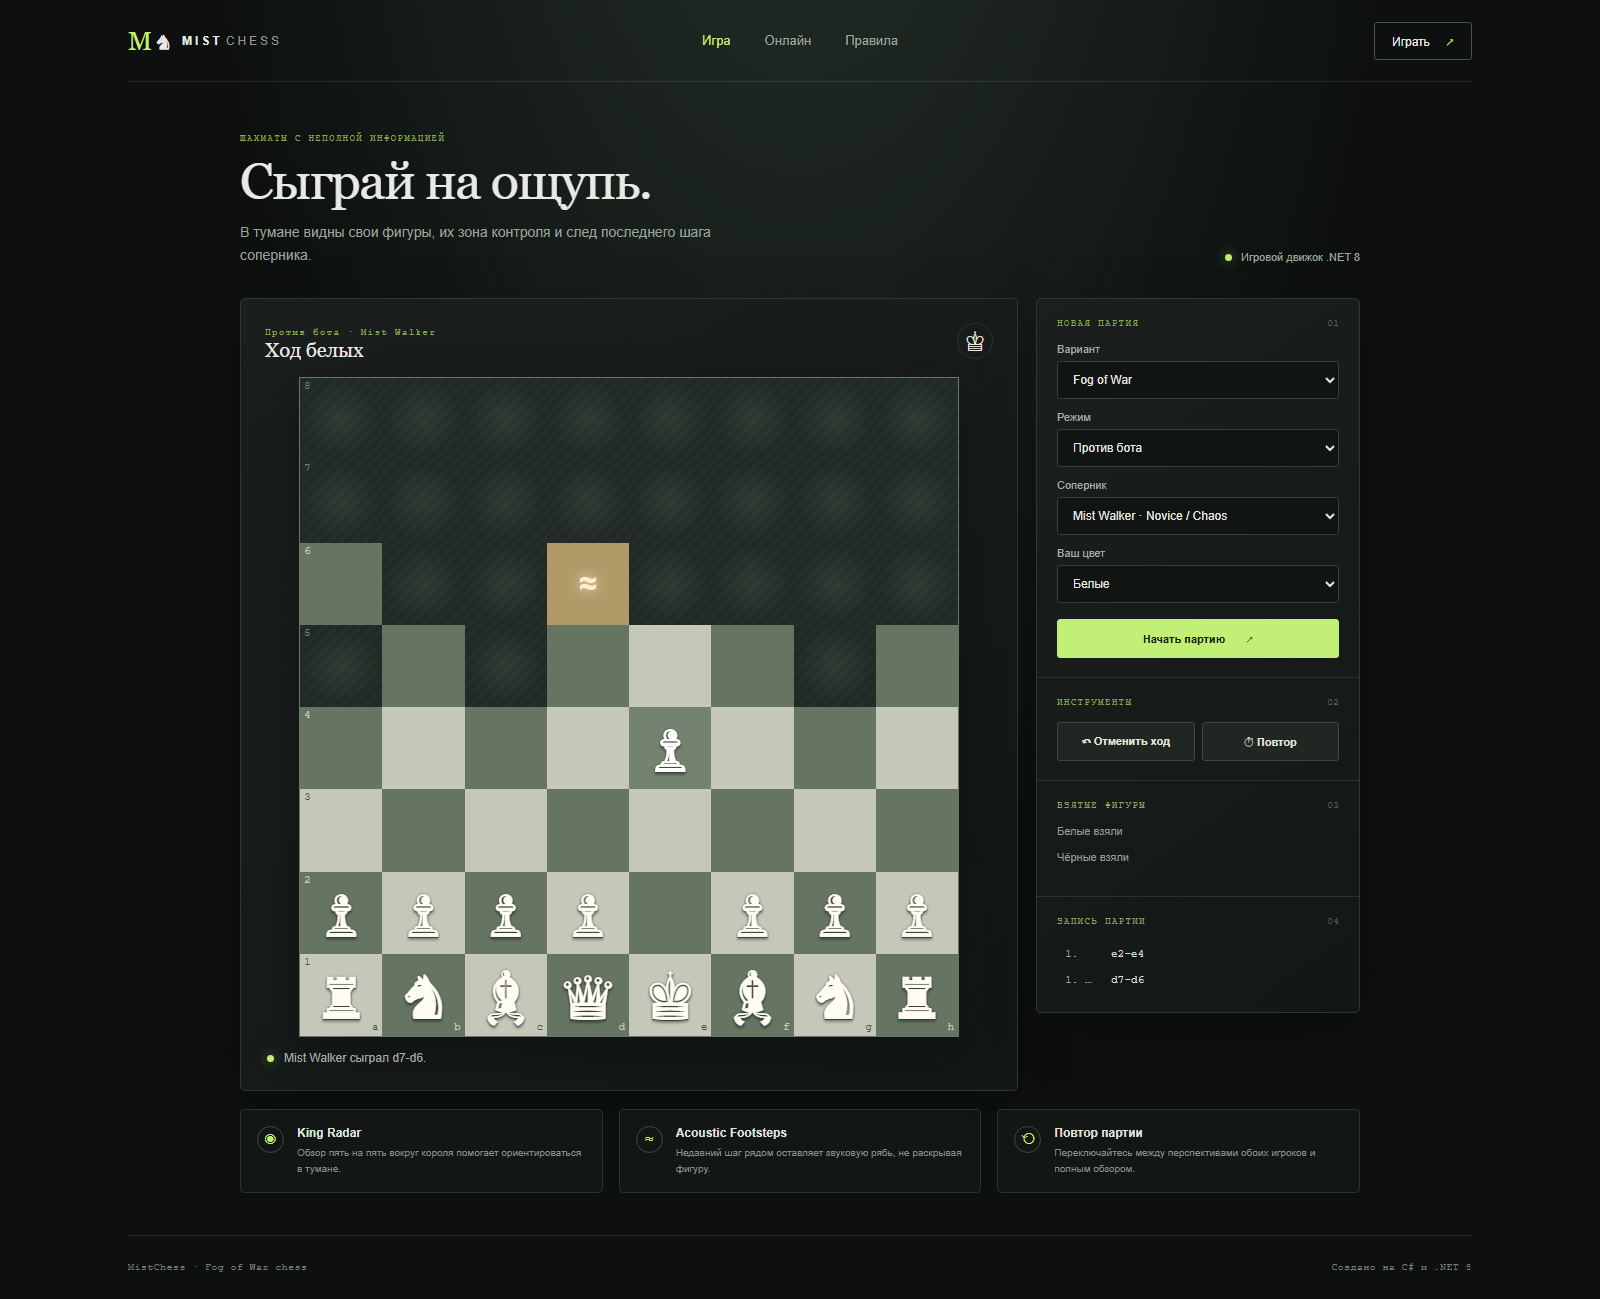
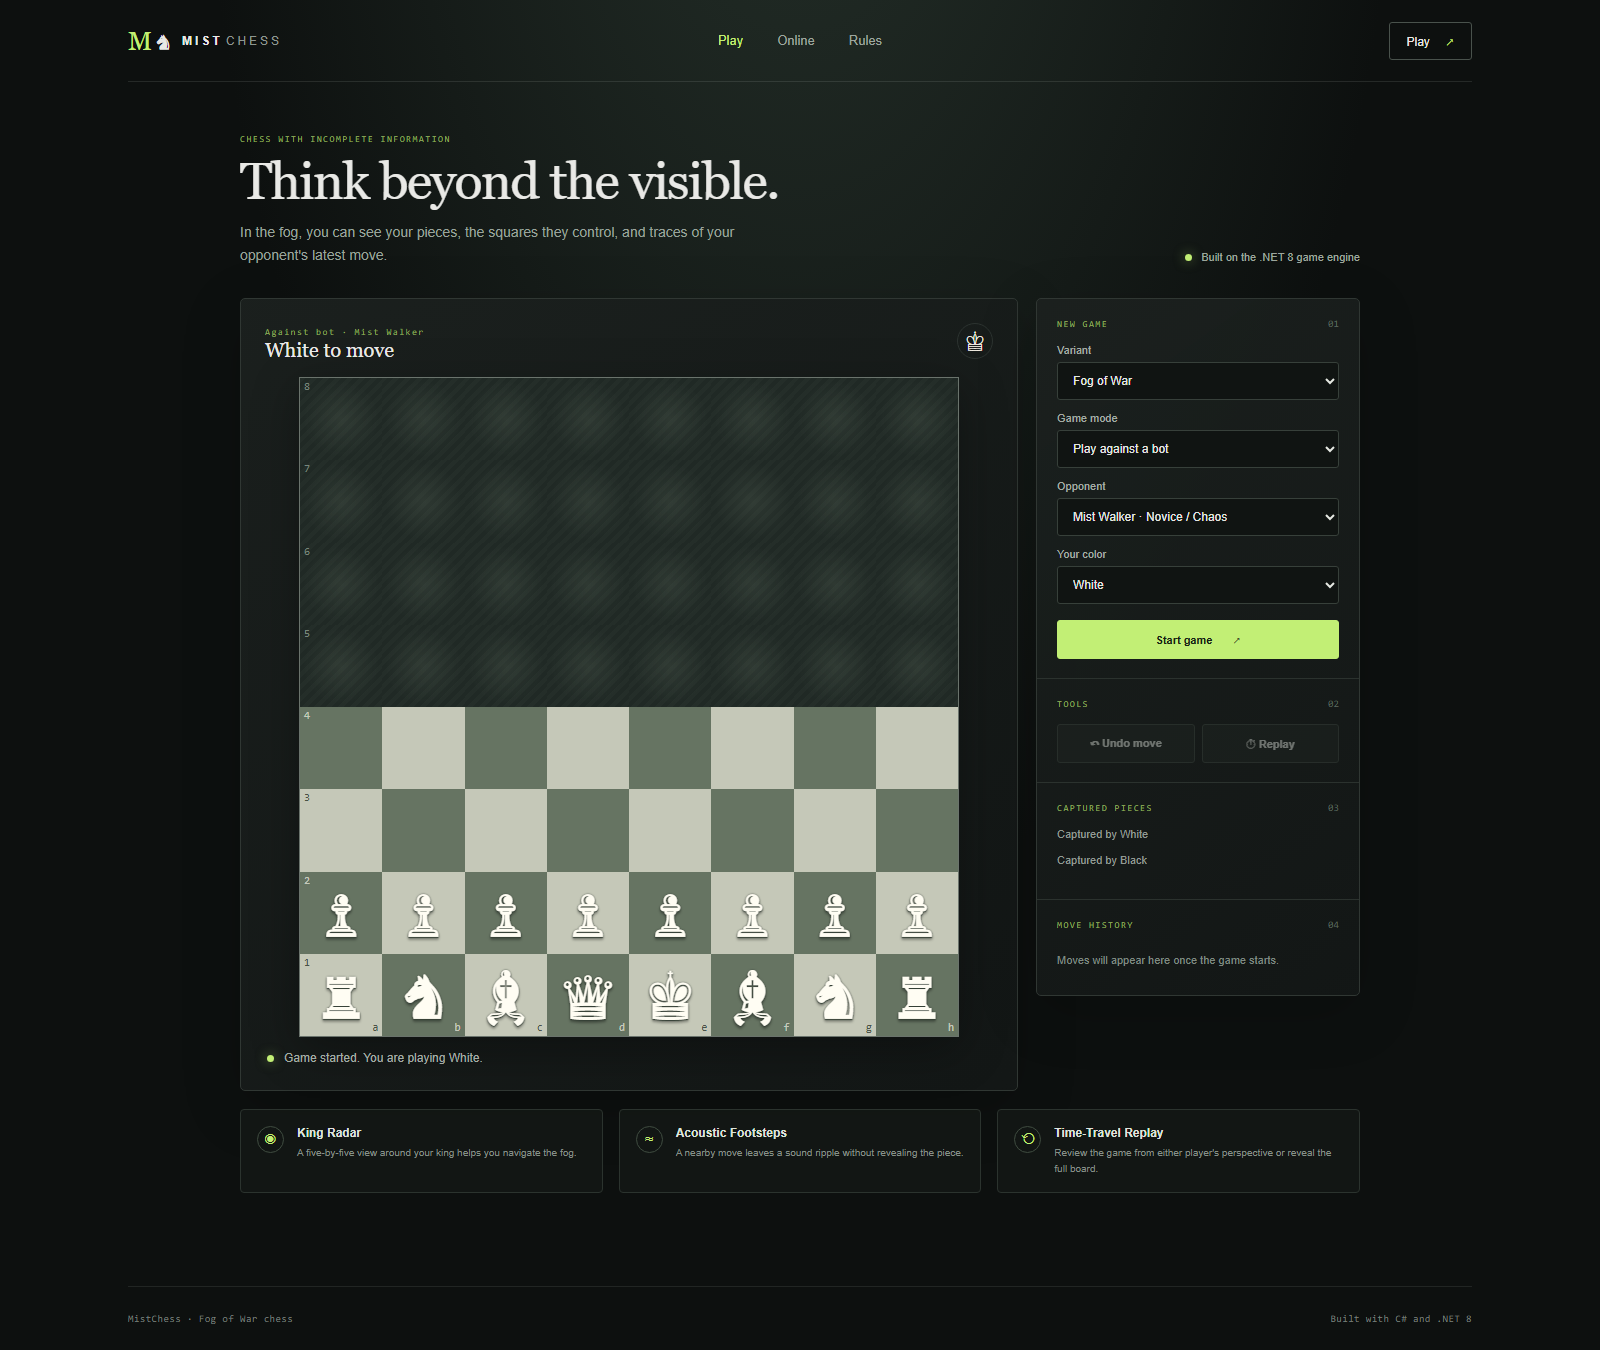
Update English demo evidence and test docs

diff --git a/tests/MistChess.Tests/OnlineGameRegistryTests.cs b/tests/MistChess.Tests/OnlineGameRegistryTests.cs
@@ -82,7 +82,7 @@ public sealed class OnlineGameRegistryTests
         registry.LeaveRoom("black-player");
 
         Assert.True(whiteViews[^1].IsFinished);
-        Assert.Equal("Победа", whiteViews[^1].Status);
+        Assert.Equal("You won", whiteViews[^1].Status);
         Assert.False(whiteViews[^1].IsOpponentConnected);
     }
 }

diff --git a/docs/DEFENSE_GUIDE_EN.md b/docs/DEFENSE_GUIDE_EN.md
@@ -9,7 +9,7 @@
 | 5–8 min | Architecture | Trace a move from the UI to `GameSessionStore` or `OnlineGameClient`, through `MistChess.Core`, then back as a player-specific board view. |
 | 8–10 min | Practical value | Show King Radar, Acoustic Footsteps, and replay from White Fog, Black Fog, and omniscient perspectives. |
 | 10–14 min | Live demo | Start a bot game, make a move, show the bot response and fog boundary, then create and join an online room in a second browser session and exchange a legal move. |
-| 14–16 min | Method and evidence | Run the tests or show the latest verified result: 67 passed, 0 failed. Explain the focused desktop, two-session online, and 390 px viewport smoke checks. |
+| 14–16 min | Method and evidence | Run the tests or show the latest verified result: 67 passed, 0 failed, 0 skipped. The slide uses an editable results summary, not an old terminal screenshot. Explain the focused desktop, two-session online, and 390 px viewport smoke checks. |
 | 16–20 min | Questions | Both team members should be ready to explain the core rules, fog projection, UI state, and online room validation. |
 
 ## Live demo commands
@@ -34,7 +34,7 @@ To repeat the automated checks:
 dotnet test .\MistChess.sln
 ```
 
-The last verified run used .NET SDK 8.0.428 and passed 67 tests. The PowerShell image in the presentation is an unmodified earlier run showing 60 tests; it is labeled as historical evidence. The current 67-test result was checked separately in the terminal.
+The latest verified solution-wide run used .NET SDK 8.0.428 and passed 67 tests with 0 failures and 0 skipped. Slide 5 shows an editable summary of that run instead of a terminal screenshot. The screenshot on slide 4 is a live capture of the English-language deployed interface.
 
 ## Questions to rehearse
 
@@ -66,6 +66,10 @@ They use different evaluation styles and search depths. Their choices are based 
 
 `OnlineGameRegistry` checks room membership, whose turn it is, and the legal move set against the server-held board before applying a move. Each participant then receives a separately projected view.
 
+### How is the app hosted?
+
+Vercel builds and runs the .NET 8 Blazor app as a container using `Dockerfile.vercel`. Blazor Interactive Server uses SignalR over WebSockets. Online rooms are held in process memory for one server instance, so a restart or recycle can end connections and clear rooms; shared play across multiple instances is not guaranteed.
+
 ### What happens if the server restarts?
 
 Current online rooms are held in memory and are lost when the host restarts. Persistent storage, authentication, and production abuse controls are outside this classroom demo's implemented scope.
@@ -76,8 +80,8 @@ The xUnit suite has 67 tests. A separate manual browser check exercised a bot mo
 
 ## Keep the claims precise
 
-- The source is available at [github.com/dosiks2028/mistchess-fog-of-war](https://github.com/dosiks2028/mistchess-fog-of-war).
-- There is no public hosted game URL yet; the current way to play is to run the app locally.
+- The source is at [github.com/dosiks2028/mistchess-fog-of-war](https://github.com/dosiks2028/mistchess-fog-of-war); the live English-language game is at [mistchess-fog-of-war.vercel.app](https://mistchess-fog-of-war.vercel.app).
+- Vercel hosts the .NET 8 container from `Dockerfile.vercel`; SignalR uses WebSockets. The current online-room registry is in-memory and single-process, so a restart can clear rooms and multi-instance room sharing is not guaranteed.
 - The comparison describes only the cited public Chess.com help articles, not Chess.com's private implementation.
 - Do not describe the room registry as persistent or multi-server. It is currently in-memory and single-process.
 - Be prepared for either author to answer questions about any project area.

diff --git a/README.md b/README.md
@@ -26,7 +26,7 @@ The container runtime supports real-time WebSocket connections, but it can recyc
 
 ## Browser screenshot
 
-This is a live browser capture of the implemented game after the first move and bot reply:
+This is a live browser capture of the deployed English interface at the initial Fog of War position:
 
 ![MistChess Fog of War game running in a browser](docs/mistchess-game.png)
 
